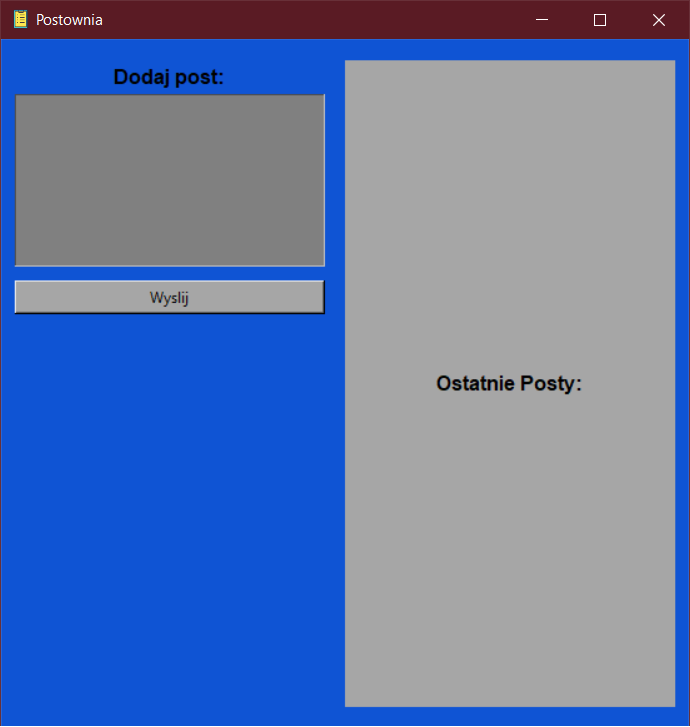
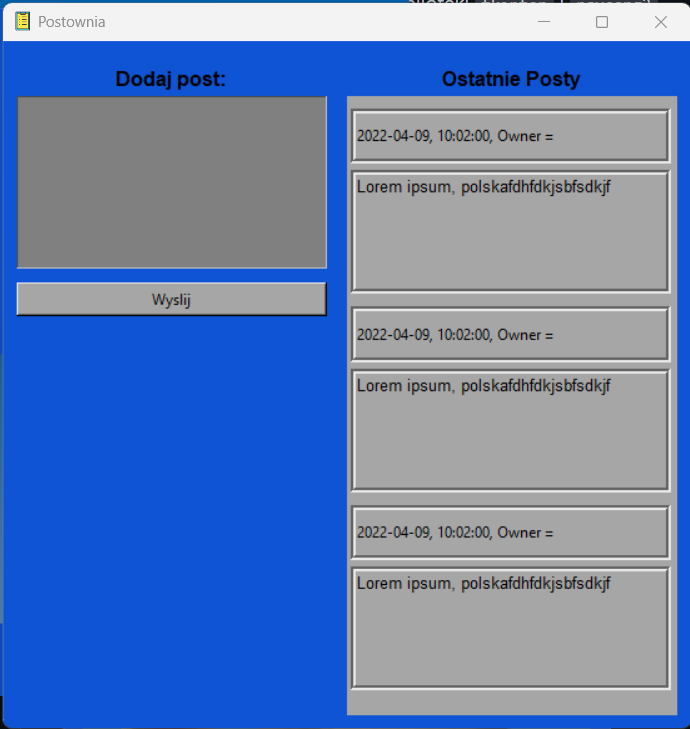
Zaktualizowano plik README.md

Changed region(s): [[0.0, 0.0, 1.0, 1.0]]

diff --git a/README.md b/README.md
@@ -1,5 +1,5 @@
 <h2>POST-APLICATION-WITH-DB</h2>
-<p>Aplikacja służy do zalogowania się</p>
+<p>Aplikacja służy do zalogowania się i publikowania postów</p>
 <p>Do stworzenia aplikacji zostały użyte biblioteki <code>tkinter</code> i <code>psycopg2</code></p>
 <p>Aplikacja jest w wersji beta i jest podczas rozwoju</p>
 <img src="Aplikacja.png" alt="">
